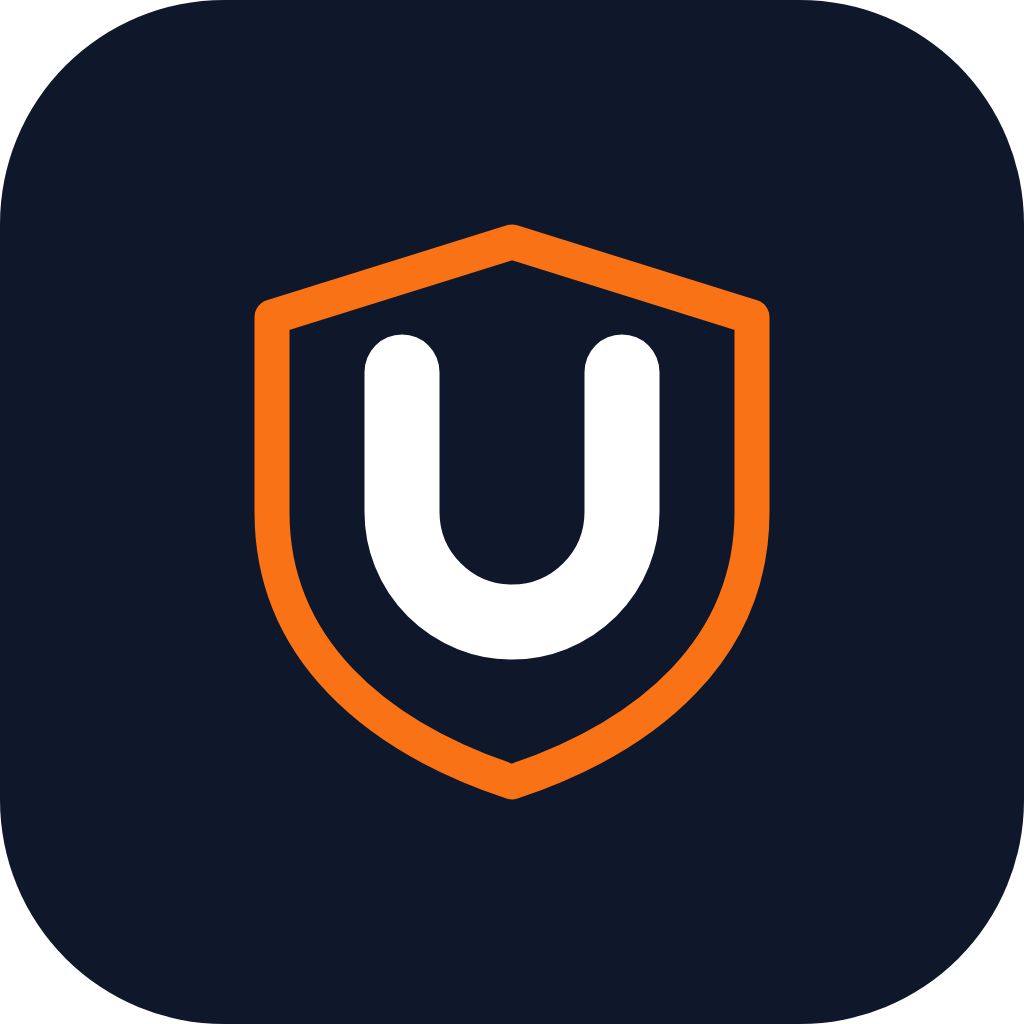
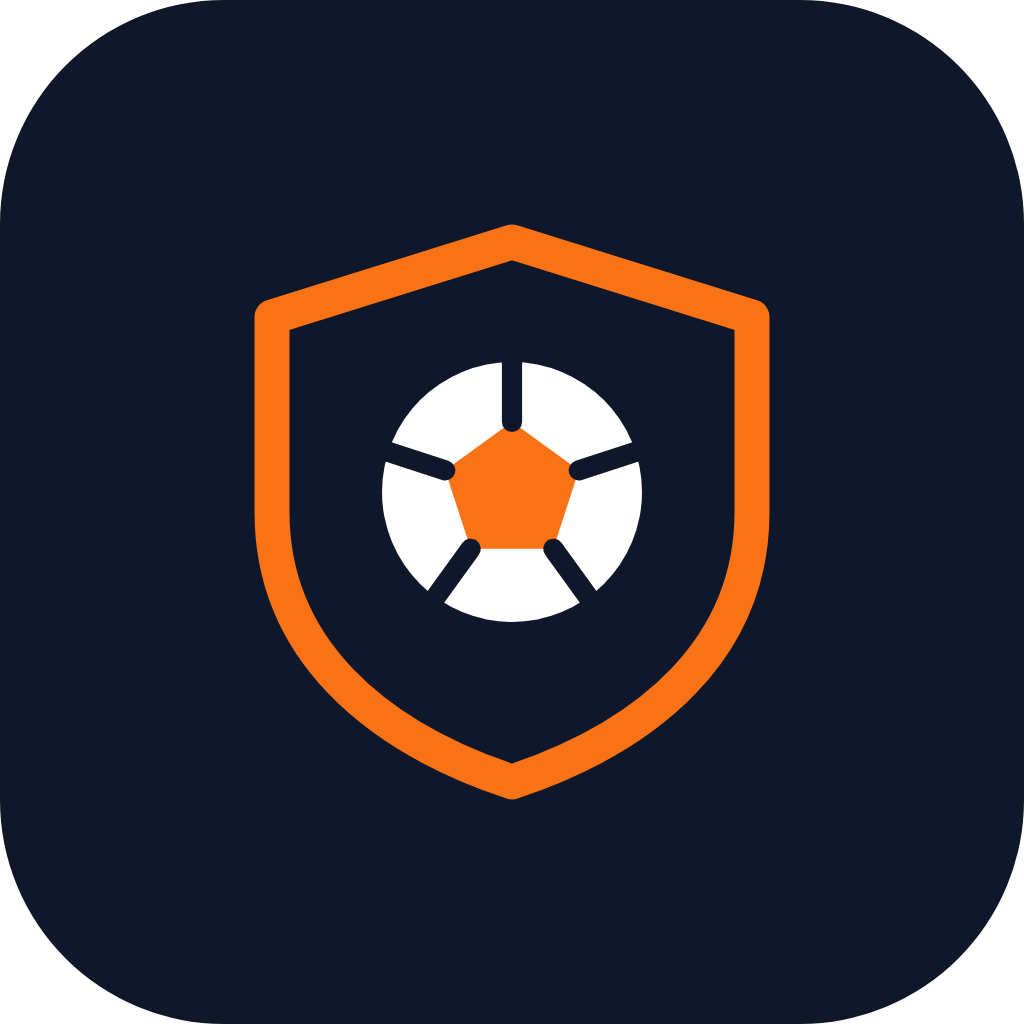
Un ballon dans l'écusson, et non plus une initiale
L'écusson tenait, la palette aussi — mais le « U » au milieu ne disait
rien du sport. C'est une lettre, pas un emblème.

**Quatre motifs essayés**, rendus côte à côte à toutes les tailles : le
ballon, le U porteur du ballon, le ballon lancé, et la silhouette d'une
frappe. La frappe est la plus belle à quatre-vingt-seize pixels et la
première à mourir en dessous de trente-deux ; le U porteur encombre le
ballon d'un anneau qui disparaît en réduisant. Reste le ballon.

Son **pentagone est orange** plutôt que sombre : c'est ce qui le sépare
du ballon de n'importe qui, et cela fait entrer la palette dans le motif
au lieu de la laisser au contour.

**Un script engendre désormais la famille.** L'écusson, sa version à une
seule encre, les deux tuiles et le badge de notification sont le même
dessin à trois habillages ; écrits séparément, ils divergent au premier
ajustement, et l'on s'en aperçoit le jour où l'icône du téléphone ne
ressemble plus au favori de l'onglet. Le composant React en est
régénéré, pas recopié.

Le pentagone est calculé et non tracé à la main : dessiné à l'œil il
penche toujours un peu, et c'est la première chose qu'on voit.

Claude-Session: https://claude.ai/code/session_01U8611Y3FeW6QDJeCuCMpsQ

Changed region(s): [[0.3438, 0.3125, 0.6562, 0.6562]]

diff --git a/apps/web/src/components/brand/uno-mark.tsx b/apps/web/src/components/brand/uno-mark.tsx
@@ -31,21 +31,7 @@ export function UnoMark({
         role="img"
         aria-label="UNO League"
       >
-        <mask id="uno-mark-u">
-          <rect width="64" height="64" fill="#fff" />
-          <path
-            d="M21 18v14a11 11 0 0 0 22 0V18"
-            fill="none"
-            stroke="#000"
-            strokeWidth="7.5"
-            strokeLinecap="round"
-          />
-        </mask>
-        <path
-          d="M32 5 56 12.5V32c0 13.6-10.2 22.4-24 27C18.2 54.4 8 45.6 8 32V12.5Z"
-          fill="currentColor"
-          mask="url(#uno-mark-u)"
-        />
+        <mask id="uno-ballon"><rect width="64" height="64" fill="#fff"/><circle cx="32" cy="30" r="13" fill="#000"/><path d="M32.00 22.98 38.68 27.83 36.13 35.68 27.87 35.68 25.32 27.83Z" fill="#fff"/><g stroke="#fff" strokeWidth="2.02" strokeLinecap="round"><path d="M32.00 22.98 32.00 17.00"/><path d="M38.68 27.83 44.36 25.98"/><path d="M36.13 35.68 39.64 40.52"/><path d="M27.87 35.68 24.36 40.52"/><path d="M25.32 27.83 19.64 25.98"/></g></mask><path d="M32 5 56 12.5V32c0 13.6-10.2 22.4-24 27C18.2 54.4 8 45.6 8 32V12.5Z" fill="currentColor" mask="url(#uno-ballon)"/>
       </svg>
     );
   }
@@ -57,20 +43,7 @@ export function UnoMark({
       role="img"
       aria-label="UNO League"
     >
-      <path
-        d="M32 5 56 12.5V32c0 13.6-10.2 22.4-24 27C18.2 54.4 8 45.6 8 32V12.5Z"
-        fill="#0F172A"
-        stroke="#F97316"
-        strokeWidth="3.5"
-        strokeLinejoin="round"
-      />
-      <path
-        d="M21 18v14a11 11 0 0 0 22 0V18"
-        fill="none"
-        stroke="#fff"
-        strokeWidth="7.5"
-        strokeLinecap="round"
-      />
+      <path d="M32 5 56 12.5V32c0 13.6-10.2 22.4-24 27C18.2 54.4 8 45.6 8 32V12.5Z" fill="#0F172A" stroke="#F97316" strokeWidth="3.5" strokeLinejoin="round"/><circle cx="32.0" cy="30.0" r="13.0" fill="#fff"/><path d="M32.00 22.98 38.68 27.83 36.13 35.68 27.87 35.68 25.32 27.83Z" fill="#F97316"/><g stroke="#0F172A" strokeWidth="2.02" strokeLinecap="round"><path d="M32.00 22.98 32.00 17.00"/><path d="M38.68 27.83 44.36 25.98"/><path d="M36.13 35.68 39.64 40.52"/><path d="M27.87 35.68 24.36 40.52"/><path d="M25.32 27.83 19.64 25.98"/></g>
     </svg>
   );
 }

diff --git a/docs/branding/genere.py b/docs/branding/genere.py
@@ -1,0 +1,136 @@
+"""Engendre toute la famille de la marque à partir d'une seule géométrie.
+
+**Pourquoi un script plutôt que six fichiers tenus à la main.** L'écusson, sa
+version monochrome, la tuile d'application, la tuile rognable et le badge des
+notifications sont le même dessin à cinq échelles et trois habillages. Écrits
+séparément, ils divergent au premier ajustement — et l'on s'en aperçoit le
+jour où l'icône du téléphone ne ressemble plus au favori de l'onglet.
+
+Le pentagone du ballon est **calculé**, jamais recopié : dessiné à la main il
+penche toujours un peu, et c'est la première chose que l'œil voit.
+"""
+
+import io
+import math
+import pathlib
+
+NAVY = "#0F172A"
+ORANGE = "#F97316"
+BLANC = "#fff"
+
+RACINE = pathlib.Path(__file__).parent
+
+# L'écusson : la forme que porte toute ligue de football.
+ECUSSON = "M32 5 56 12.5V32c0 13.6-10.2 22.4-24 27C18.2 54.4 8 45.6 8 32V12.5Z"
+
+
+def pentagone(cx: float, cy: float, r: float) -> tuple[str, list[tuple[float, float]]]:
+    """Le pentagone central du ballon, pointe en haut, et ses sommets."""
+    rp = r * 0.54
+    sommets = [
+        (cx + rp * math.cos(math.radians(a)), cy + rp * math.sin(math.radians(a)))
+        for a in (-90, -18, 54, 126, 198)
+    ]
+    return "M" + " ".join(f"{x:.2f} {y:.2f}" for x, y in sommets) + "Z", sommets
+
+
+def coutures(cx: float, cy: float, r: float, sommets) -> list[str]:
+    """Les cinq coutures, du pentagone vers le bord du ballon."""
+    rp = r * 0.54
+    traits = []
+    for x, y in sommets:
+        ux, uy = (x - cx) / rp, (y - cy) / rp
+        traits.append(f"M{x:.2f} {y:.2f} {cx + ux * r:.2f} {cy + uy * r:.2f}")
+    return traits
+
+
+def ballon(cx=32.0, cy=30.0, r=13.0, centre=ORANGE, trait=NAVY) -> str:
+    d, sommets = pentagone(cx, cy, r)
+    lignes = "".join(f'<path d="{t}"/>' for t in coutures(cx, cy, r, sommets))
+    return (
+        f'<circle cx="{cx}" cy="{cy}" r="{r}" fill="{BLANC}"/>'
+        f'<path d="{d}" fill="{centre}"/>'
+        f'<g stroke="{trait}" stroke-width="{r * 0.155:.2f}" stroke-linecap="round">'
+        f"{lignes}</g>"
+    )
+
+
+def svg(corps: str, vb="0 0 64 64", titre="UNO League") -> str:
+    return (
+        f'<svg xmlns="http://www.w3.org/2000/svg" viewBox="{vb}" role="img" '
+        f'aria-label="{titre}">\n  <title>{titre}</title>\n  {corps}\n</svg>\n'
+    )
+
+
+def ecusson(fill=NAVY, stroke=ORANGE, largeur=3.5) -> str:
+    return (
+        f'<path d="{ECUSSON}" fill="{fill}" stroke="{stroke}" '
+        f'stroke-width="{largeur}" stroke-linejoin="round"/>'
+    )
+
+
+FICHIERS: dict[str, str] = {}
+
+# --- L'écusson, en couleurs ------------------------------------------------
+FICHIERS["mark.svg"] = svg(ecusson() + ballon())
+
+# --- Une seule encre -------------------------------------------------------
+#
+# Le ballon est **évidé** dans l'écusson, puis ses coutures y sont remises.
+# Posé par-dessus, il disparaîtrait : deux formes de la même couleur, l'une
+# sur l'autre, ne font qu'une tache.
+_d, _s = pentagone(32, 30, 13)
+_traits = "".join(f'<path d="{t}"/>' for t in coutures(32, 30, 13, _s))
+FICHIERS["mark-mono.svg"] = svg(
+    '<mask id="uno-ballon">'
+    '<rect width="64" height="64" fill="#fff"/>'
+    '<circle cx="32" cy="30" r="13" fill="#000"/>'
+    f'<path d="{_d}" fill="#fff"/>'
+    f'<g stroke="#fff" stroke-width="2.02" stroke-linecap="round">{_traits}</g>'
+    "</mask>"
+    f'<path d="{ECUSSON}" fill="currentColor" mask="url(#uno-ballon)"/>'
+)
+
+# --- Les tuiles d'application ---------------------------------------------
+#
+# `icon` garde une marge que les systèmes arrondissent ; `icon-maskable` en
+# garde davantage, parce qu'ils ont le droit d'y découper un cercle : tout ce
+# qui compte doit tenir dans les 66 % du centre.
+_marque = ecusson() + ballon()
+FICHIERS["icon.svg"] = svg(
+    f'<rect width="512" height="512" rx="112" fill="{NAVY}"/>'
+    f'<g transform="translate(96 96) scale(5)">{_marque}</g>',
+    vb="0 0 512 512",
+)
+FICHIERS["icon-maskable.svg"] = svg(
+    f'<rect width="512" height="512" fill="{NAVY}"/>'
+    f'<g transform="translate(134 134) scale(3.85)">{_marque}</g>',
+    vb="0 0 512 512",
+)
+
+# --- Le badge des notifications -------------------------------------------
+#
+# Android n'en garde que la silhouette, reteinte en blanc. Pas de couleur, pas
+# de dégradé : seulement une forme qui se reconnaît à seize pixels.
+FICHIERS["badge.svg"] = svg(
+    '<mask id="uno-badge">'
+    '<rect width="64" height="64" fill="#fff"/>'
+    '<circle cx="32" cy="30" r="13" fill="#000"/>'
+    f'<path d="{_d}" fill="#fff"/>'
+    f'<g stroke="#fff" stroke-width="2.02" stroke-linecap="round">{_traits}</g>'
+    "</mask>"
+    f'<path d="{ECUSSON}" fill="#fff" mask="url(#uno-badge)"/>'
+)
+
+# --- Le fond d'une icône adaptative Android -------------------------------
+FICHIERS["fond.svg"] = svg(f'<rect width="64" height="64" fill="{NAVY}"/>')
+
+
+def main() -> None:
+    for nom, contenu in FICHIERS.items():
+        (RACINE / nom).write_text(contenu, encoding="utf-8")
+        print(f"{nom:<22} {len(contenu):>5} o")
+
+
+if __name__ == "__main__":
+    main()

diff --git a/docs/dossier/build.py b/docs/dossier/build.py
@@ -353,13 +353,8 @@ HTML = f"""<!doctype html>
 <section class="page cover">
   <div class="glow"></div>
   <div class="mark">
-    <svg xmlns="http://www.w3.org/2000/svg" viewBox="0 0 64 64">
-      <!-- L'écusson de la ligue (docs/branding/mark.svg). -->
-      <path d="M32 5 56 12.5V32c0 13.6-10.2 22.4-24 27C18.2 54.4 8 45.6 8 32V12.5Z"
-            fill="#0F172A" stroke="#F97316" stroke-width="3.5" stroke-linejoin="round" />
-      <path d="M21 18v14a11 11 0 0 0 22 0V18" fill="none" stroke="#fff"
-            stroke-width="7.5" stroke-linecap="round" />
-    </svg>
+    <!-- L'écusson de la ligue (docs/branding/mark.svg). -->
+    <svg xmlns="http://www.w3.org/2000/svg" viewBox="0 0 64 64"><path d="M32 5 56 12.5V32c0 13.6-10.2 22.4-24 27C18.2 54.4 8 45.6 8 32V12.5Z" fill="#0F172A" stroke="#F97316" stroke-width="3.5" stroke-linejoin="round"/><circle cx="32.0" cy="30.0" r="13.0" fill="#fff"/><path d="M32.00 22.98 38.68 27.83 36.13 35.68 27.87 35.68 25.32 27.83Z" fill="#F97316"/><g stroke="#0F172A" stroke-width="2.02" stroke-linecap="round"><path d="M32.00 22.98 32.00 17.00"/><path d="M38.68 27.83 44.36 25.98"/><path d="M36.13 35.68 39.64 40.52"/><path d="M27.87 35.68 24.36 40.52"/><path d="M25.32 27.83 19.64 25.98"/></g></svg>
     <span>UNO <em>LEAGUE</em></span>
   </div>
   <h1>Le futsal amateur,<br />sans licence,<br />sans engagement.<br /><b>Avec récompenses.</b></h1>

diff --git a/docs/branding/README.md b/docs/branding/README.md
@@ -4,27 +4,35 @@ L'écusson, ses déclinaisons, et de quoi les refabriquer. Les fichiers de
 référence sont les **SVG** ; tous les PNG de l'application en sont dérivés par
 `exporte.mjs` et `exporte-android.mjs`, jamais retouchés à la main.
 
-## Pourquoi un écusson
+## Pourquoi un écusson, et un ballon dedans
 
-Quatre pistes ont été dessinées et rendues côte à côte — un écusson, un
-ballon logé dans le U, un terrain vu du dessus, trois barres de division. Une
-seule survit aux deux épreuves qui comptent :
+Deux tours de dessin, et chacun a éliminé quelque chose.
 
-- **vingt-quatre pixels**, la taille d'un favori d'onglet et d'une barre
-  d'onglets. Le ballon y devenait un œil, le terrain une bouillie, les barres
-  une jauge de réseau ;
-- **une seule encre**, celle d'un maillot brodé ou d'un tampon. L'écusson
-  plein en orange, essayé aussi, s'y effondrait en une tache grise uniforme.
+**Le premier a choisi la forme.** Quatre pistes rendues côte à côte — un
+écusson, un ballon logé dans un U, un terrain vu du dessus, trois barres de
+division. Une seule survit aux deux épreuves qui comptent : **vingt-quatre
+pixels**, où le ballon devenait un œil et les barres une jauge de réseau ; et
+**une seule encre**, celle d'un maillot brodé, où l'écusson orange plein
+s'effondrait en une tache grise. L'écusson garde en prime ce qu'aucune autre
+forme ne dit aussi vite : *ceci est une ligue*.
 
-L'écusson garde en plus ce qu'aucune autre forme ne dit aussi vite : *ceci est
-une ligue*.
+**Le second a choisi ce qu'on met dedans.** L'initiale seule ne disait rien du
+sport — c'est une lettre, pas un emblème. Quatre motifs essayés : le ballon,
+le U porteur du ballon, le ballon lancé, et la silhouette d'une frappe. La
+frappe est la plus belle à quatre-vingt-seize pixels et la première à mourir
+en dessous de trente-deux ; le U porteur encombre le ballon d'un anneau. Reste
+le ballon, dont le **pentagone est orange** plutôt que sombre : c'est ce qui
+le sépare du ballon de n'importe qui.
+
+Le pentagone est **calculé**, jamais recopié. Dessiné à la main il penche
+toujours un peu, et c'est la première chose que l'œil voit.
 
 ## Les fichiers
 
 | Fichier | À quoi il sert |
 |---|---|
 | `mark.svg` | L'écusson seul, en couleurs. La référence. |
-| `mark-mono.svg` | Une seule encre, prise sur `currentColor`. Le U est **évidé**. |
+| `mark-mono.svg` | Une seule encre, prise sur `currentColor`. Le ballon est **évidé**. |
 | `icon.svg` | La tuile d'application, coins arrondis compris. |
 | `icon-maskable.svg` | La tuile que les systèmes ont le droit de rogner. |
 | `badge.svg` | La silhouette des notifications Android. |
@@ -39,13 +47,23 @@ versionnées parce qu'on les cherche au mauvais moment — la veille d'un dépô
 inline pour que la marque ne clignote pas au premier écran. **Les deux doivent
 bouger ensemble.**
 
-## Refabriquer les PNG
+## Refabriquer la marque
 
 ```bash
 cd docs/branding
+python3 genere.py         # les six SVG, à partir d'une seule géométrie
 node exporte.mjs          # favori, icônes web, badge de notification
 node exporte-android.mjs  # les six densités du projet Android
 ```
+
+`genere.py` est la source de vérité. L'écusson, sa version monochrome, les
+deux tuiles et le badge sont le même dessin à trois habillages : écrits
+séparément, ils divergent au premier ajustement — et l'on s'en aperçoit le
+jour où l'icône du téléphone ne ressemble plus au favori de l'onglet.
+
+Le composant React `apps/web/src/components/brand/uno-mark.tsx` est régénéré
+depuis `mark.svg` et `mark-mono.svg` : il en est la transcription, pas une
+seconde version.
 
 Le rendu passe par Chromium plutôt que par une bibliothèque de conversion :
 c'est le moteur qui affichera le SVG, donc le PNG ne peut pas en diverger — ce
